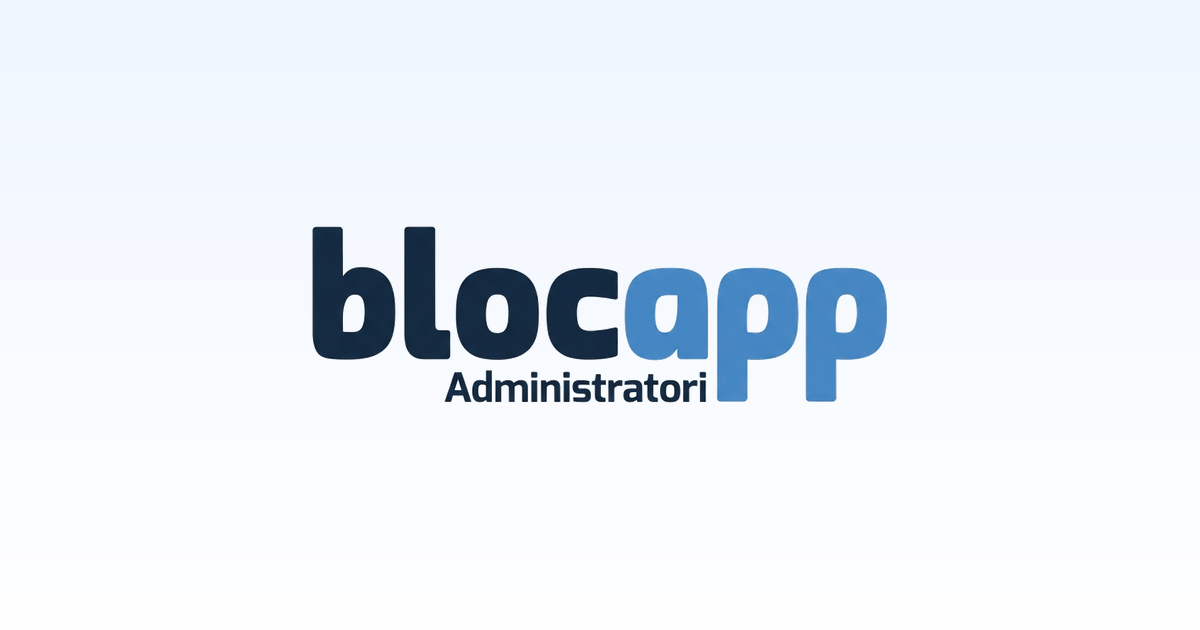
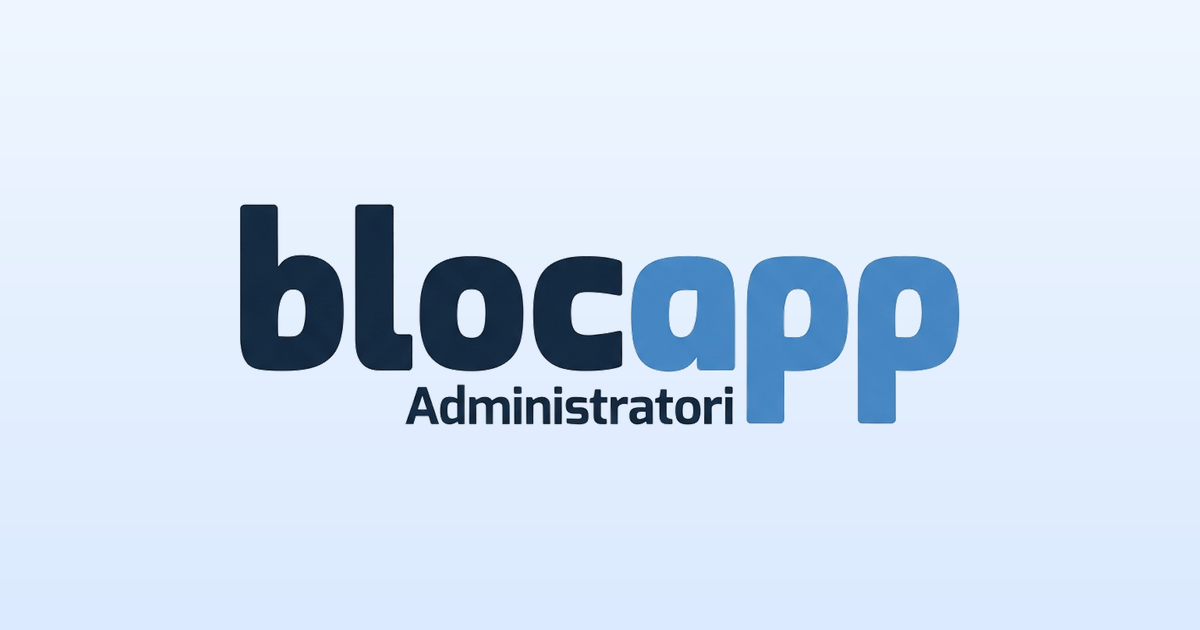
feat: Rename Portal Proprietari to Portal Locatari
- Updated logos with new versions from Ideogram (Locatari instead of Proprietari)
- Regenerated OG images for social sharing with new logos
- Replaced all "Portal Proprietari" references with "Portal Locatari" in code
- Updated alt texts and UI labels accordingly

diff --git a/src/components/modals/ExpenseConfigModal.js b/src/components/modals/ExpenseConfigModal.js
@@ -57,7 +57,7 @@ const ExpenseConfigModal = ({
       enabled: false,
       inputMode: 'mixed', // 'manual' | 'indexes' | 'mixed' - Default: Mixt (flexibil)
       indexTypes: [],
-      // 📱 Setări Portal Proprietari
+      // 📱 Setări Portal Locatari
       portalSubmission: {
         enabled: true,           // Permite transmitere din portal
         periodType: 'auto',      // 'auto' | 'manual' | 'custom'
@@ -192,7 +192,7 @@ const ExpenseConfigModal = ({
           inputMode: expenseConfig.indexConfiguration?.inputMode || 'mixed',
           indexTypes: expenseConfig.indexConfiguration?.indexTypes || [],
           apartmentMeters: expenseConfig.indexConfiguration?.apartmentMeters || {},
-          // 📱 Setări Portal Proprietari - merge cu defaults
+          // 📱 Setări Portal Locatari - merge cu defaults
           portalSubmission: {
             enabled: expenseConfig.indexConfiguration?.portalSubmission?.enabled ?? true,
             periodType: expenseConfig.indexConfiguration?.portalSubmission?.periodType || 'auto',
@@ -2038,10 +2038,10 @@ const ExpenseConfigModal = ({
                 </p>
               </div>
 
-              {/* 📱 Transmitere din Portal Proprietari */}
+              {/* 📱 Transmitere din Portal Locatari */}
               <div className="mt-3 bg-emerald-50 border border-emerald-200 rounded-md p-3">
                 <h4 className="text-xs sm:text-sm font-semibold text-emerald-900 mb-2 flex items-center gap-2">
-                  📱 Transmitere din Portal Proprietari
+                  📱 Transmitere din Portal Locatari
                 </h4>
 
                 {/* Toggle principal */}

diff --git a/src/components/auth/OwnerInviteRegistration.js b/src/components/auth/OwnerInviteRegistration.js
@@ -169,7 +169,7 @@ export default function OwnerInviteRegistration({ token }) {
             <CheckCircle className="w-6 h-6 sm:w-8 sm:h-8 text-green-600" />
           </div>
           <h2 className="text-xl sm:text-2xl font-bold text-gray-900 mb-2">Cont creat cu succes!</h2>
-          <p className="text-sm sm:text-base text-gray-600 mb-3 sm:mb-4">Vei fi redirecționat către portalul proprietarilor...</p>
+          <p className="text-sm sm:text-base text-gray-600 mb-3 sm:mb-4">Vei fi redirecționat către Portal Locatari...</p>
           <Loader2 className="w-5 h-5 sm:w-6 sm:h-6 text-green-600 animate-spin mx-auto" />
         </div>
       </div>
@@ -185,15 +185,15 @@ export default function OwnerInviteRegistration({ token }) {
           <div className="mx-auto mb-3 sm:mb-4">
             <img
               src="/logo-portal.png"
-              alt="BlocApp Proprietari"
+              alt="BlocApp Locatari"
               className="h-16 object-contain mx-auto"
             />
           </div>
           <h1 className="text-xl sm:text-2xl font-bold text-gray-900 mb-2">Bine ai venit în BlocApp!</h1>
           <p className="text-sm sm:text-base text-gray-600">
             {hasExistingAccount
-              ? 'Confirmă identitatea pentru a activa accesul la portalul proprietarilor.'
-              : 'Finalizează înregistrarea pentru a accesa portalul proprietarilor.'}
+              ? 'Confirmă identitatea pentru a activa accesul la Portal Locatari.'
+              : 'Finalizează înregistrarea pentru a accesa Portal Locatari.'}
           </p>
         </div>
 

diff --git a/src/components/auth/LoginForm.js b/src/components/auth/LoginForm.js
@@ -365,11 +365,11 @@ export default function LoginForm({ onSuccess, onSwitchToRegister, onSwitchToRes
           </div>
         </div>
 
-        {/* 🔧 DEV MODE: Portal Proprietari - doar în development */}
+        {/* 🔧 DEV MODE: Portal Locatari - doar în development */}
         {process.env.NODE_ENV === 'development' && (
           <div className="mt-3 p-3 bg-emerald-50 border border-emerald-200 rounded-xl">
             <p className="text-xs text-emerald-700 text-center mb-2">
-              Mod dezvoltare - Testare Portal Proprietari
+              Mod dezvoltare - Testare Portal Locatari
             </p>
             <button
               onClick={() => {
@@ -378,7 +378,7 @@ export default function LoginForm({ onSuccess, onSwitchToRegister, onSwitchToRes
               }}
               className="w-full bg-emerald-600 text-white py-2 px-4 rounded-lg text-sm font-semibold hover:bg-emerald-700 transition-colors"
             >
-              Deschide Portal Proprietari (Dev)
+              Deschide Portal Locatari (Dev)
             </button>
           </div>
         )}

diff --git a/src/components/owner/OwnerLandingPage.js b/src/components/owner/OwnerLandingPage.js
@@ -5,11 +5,11 @@ import {
 import { useAuthEnhanced } from '../../context/AuthContextEnhanced';
 
 /**
- * Landing Page pentru Portal Proprietari
+ * Landing Page pentru Portal Locatari
  *
  * Features:
  * - Formular login standard
- * - Proprietarii se loghează cu email și parola setată la înregistrare
+ * - Locatarii se loghează cu email și parola setată la înregistrare
  */
 export default function OwnerLandingPage() {
   const { loginEnhanced, authError, setAuthError } = useAuthEnhanced();
@@ -75,7 +75,7 @@ export default function OwnerLandingPage() {
           <a href="https://blocapp.ro" className="flex items-center justify-center mb-4 hover:opacity-80 transition-opacity">
             <img
               src="/logo-portal.png"
-              alt="BlocApp Proprietari"
+              alt="BlocApp Locatari"
               className="h-16 object-contain"
             />
           </a>

diff --git a/src/components/owner/OwnerApartmentSelector.js b/src/components/owner/OwnerApartmentSelector.js
@@ -17,7 +17,7 @@ export default function OwnerApartmentSelector({ apartments, onSelect, onLogout,
             </div>
             <div>
               <h1 className="text-base sm:text-lg font-bold text-gray-900">BlocApp</h1>
-              <p className="text-[10px] sm:text-xs text-gray-500">Portal Proprietari</p>
+              <p className="text-[10px] sm:text-xs text-gray-500">Portal Locatari</p>
             </div>
           </div>
           <button

diff --git a/src/components/owner/OwnerHeader.js b/src/components/owner/OwnerHeader.js
@@ -3,7 +3,7 @@ import { Menu, Bell, User, ChevronDown, LogOut, RefreshCw, Wrench } from 'lucide
 import { useOwnerContext } from './OwnerApp';
 
 /**
- * Header pentru Portal Proprietari
+ * Header pentru Portal Locatari
  *
  * Features:
  * - Buton menu mobile

diff --git a/src/components/owner/OwnerApp.js b/src/components/owner/OwnerApp.js
@@ -20,7 +20,7 @@ export const useOwnerContext = () => {
 };
 
 /**
- * Aplicația principală pentru Portal Proprietari
+ * Aplicația principală pentru Portal Locatari
  *
  * Props:
  * - apartmentInfo: Informații despre apartamentul selectat

diff --git a/src/OwnerPortalApp.js b/src/OwnerPortalApp.js
@@ -325,7 +325,7 @@ function OwnerPortalContent() {
 }
 
 /**
- * Aplicație standalone pentru Portal Proprietari
+ * Aplicație standalone pentru Portal Locatari
  */
 export default function OwnerPortalApp() {
   return (

diff --git a/src/components/owner/OwnerSidebar.js b/src/components/owner/OwnerSidebar.js
@@ -5,7 +5,7 @@ import {
 import { useOwnerContext } from './OwnerApp';
 
 /**
- * Sidebar pentru Portal Proprietari
+ * Sidebar pentru Portal Locatari
  *
  * Features:
  * - Navigare între views
